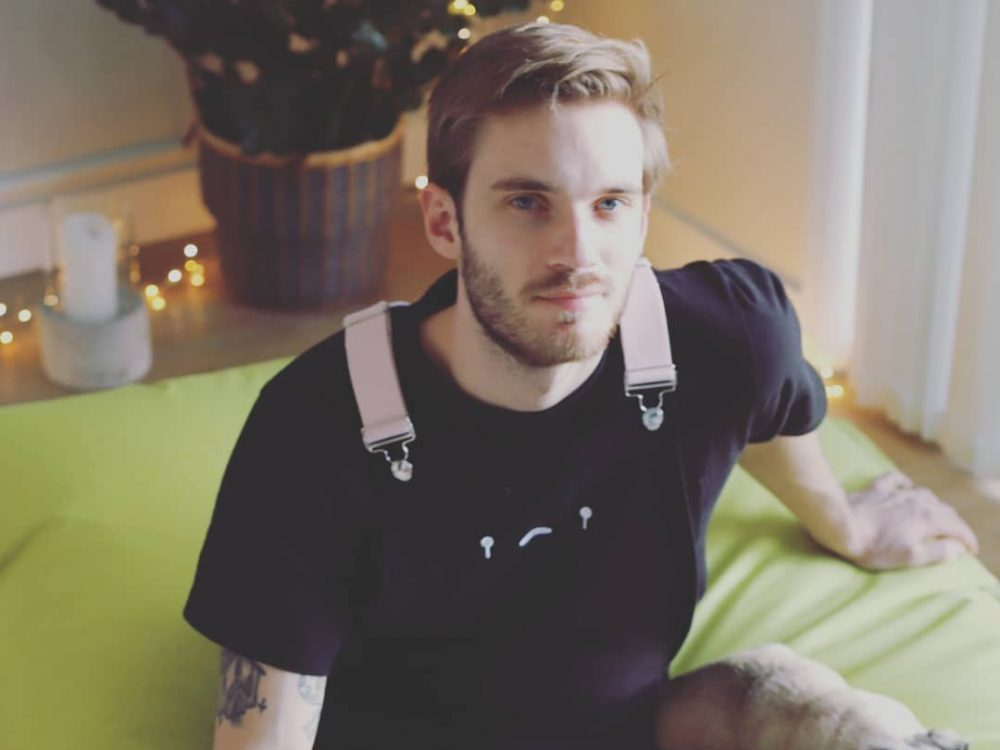
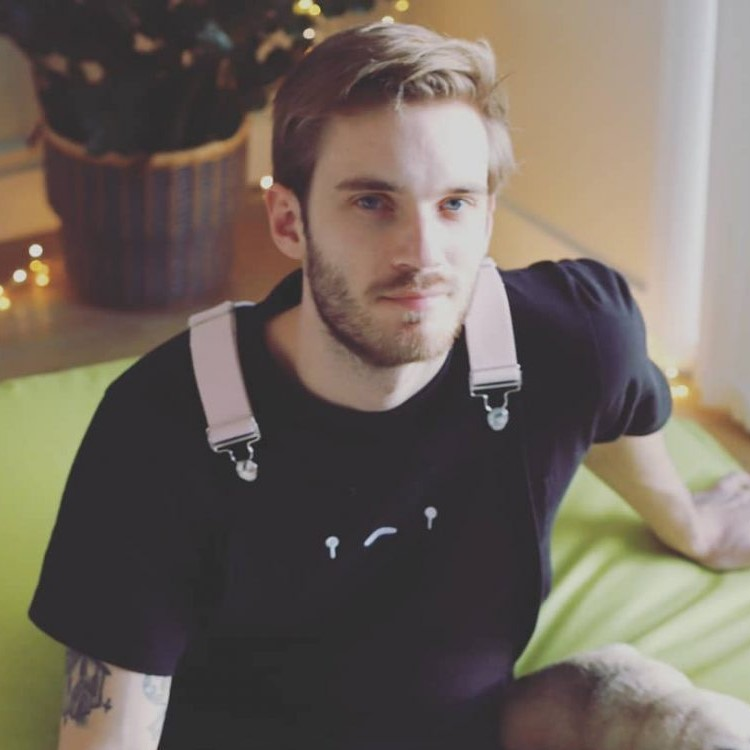
Changed featuerd in size

diff --git a/CSS/sb_index.css b/CSS/sb_index.css
@@ -220,7 +220,6 @@ h2 {
 /*Events Ends*/
 
 /* Reviews Starts */
-
 .maincontent5 {
     margin: auto;
     margin-top: 30px;
@@ -283,5 +282,6 @@ h2 {
 }
 
 #featuredIn {
-    width: 60%;
+    width: 365px;
 }
+/*Review Ends*/
